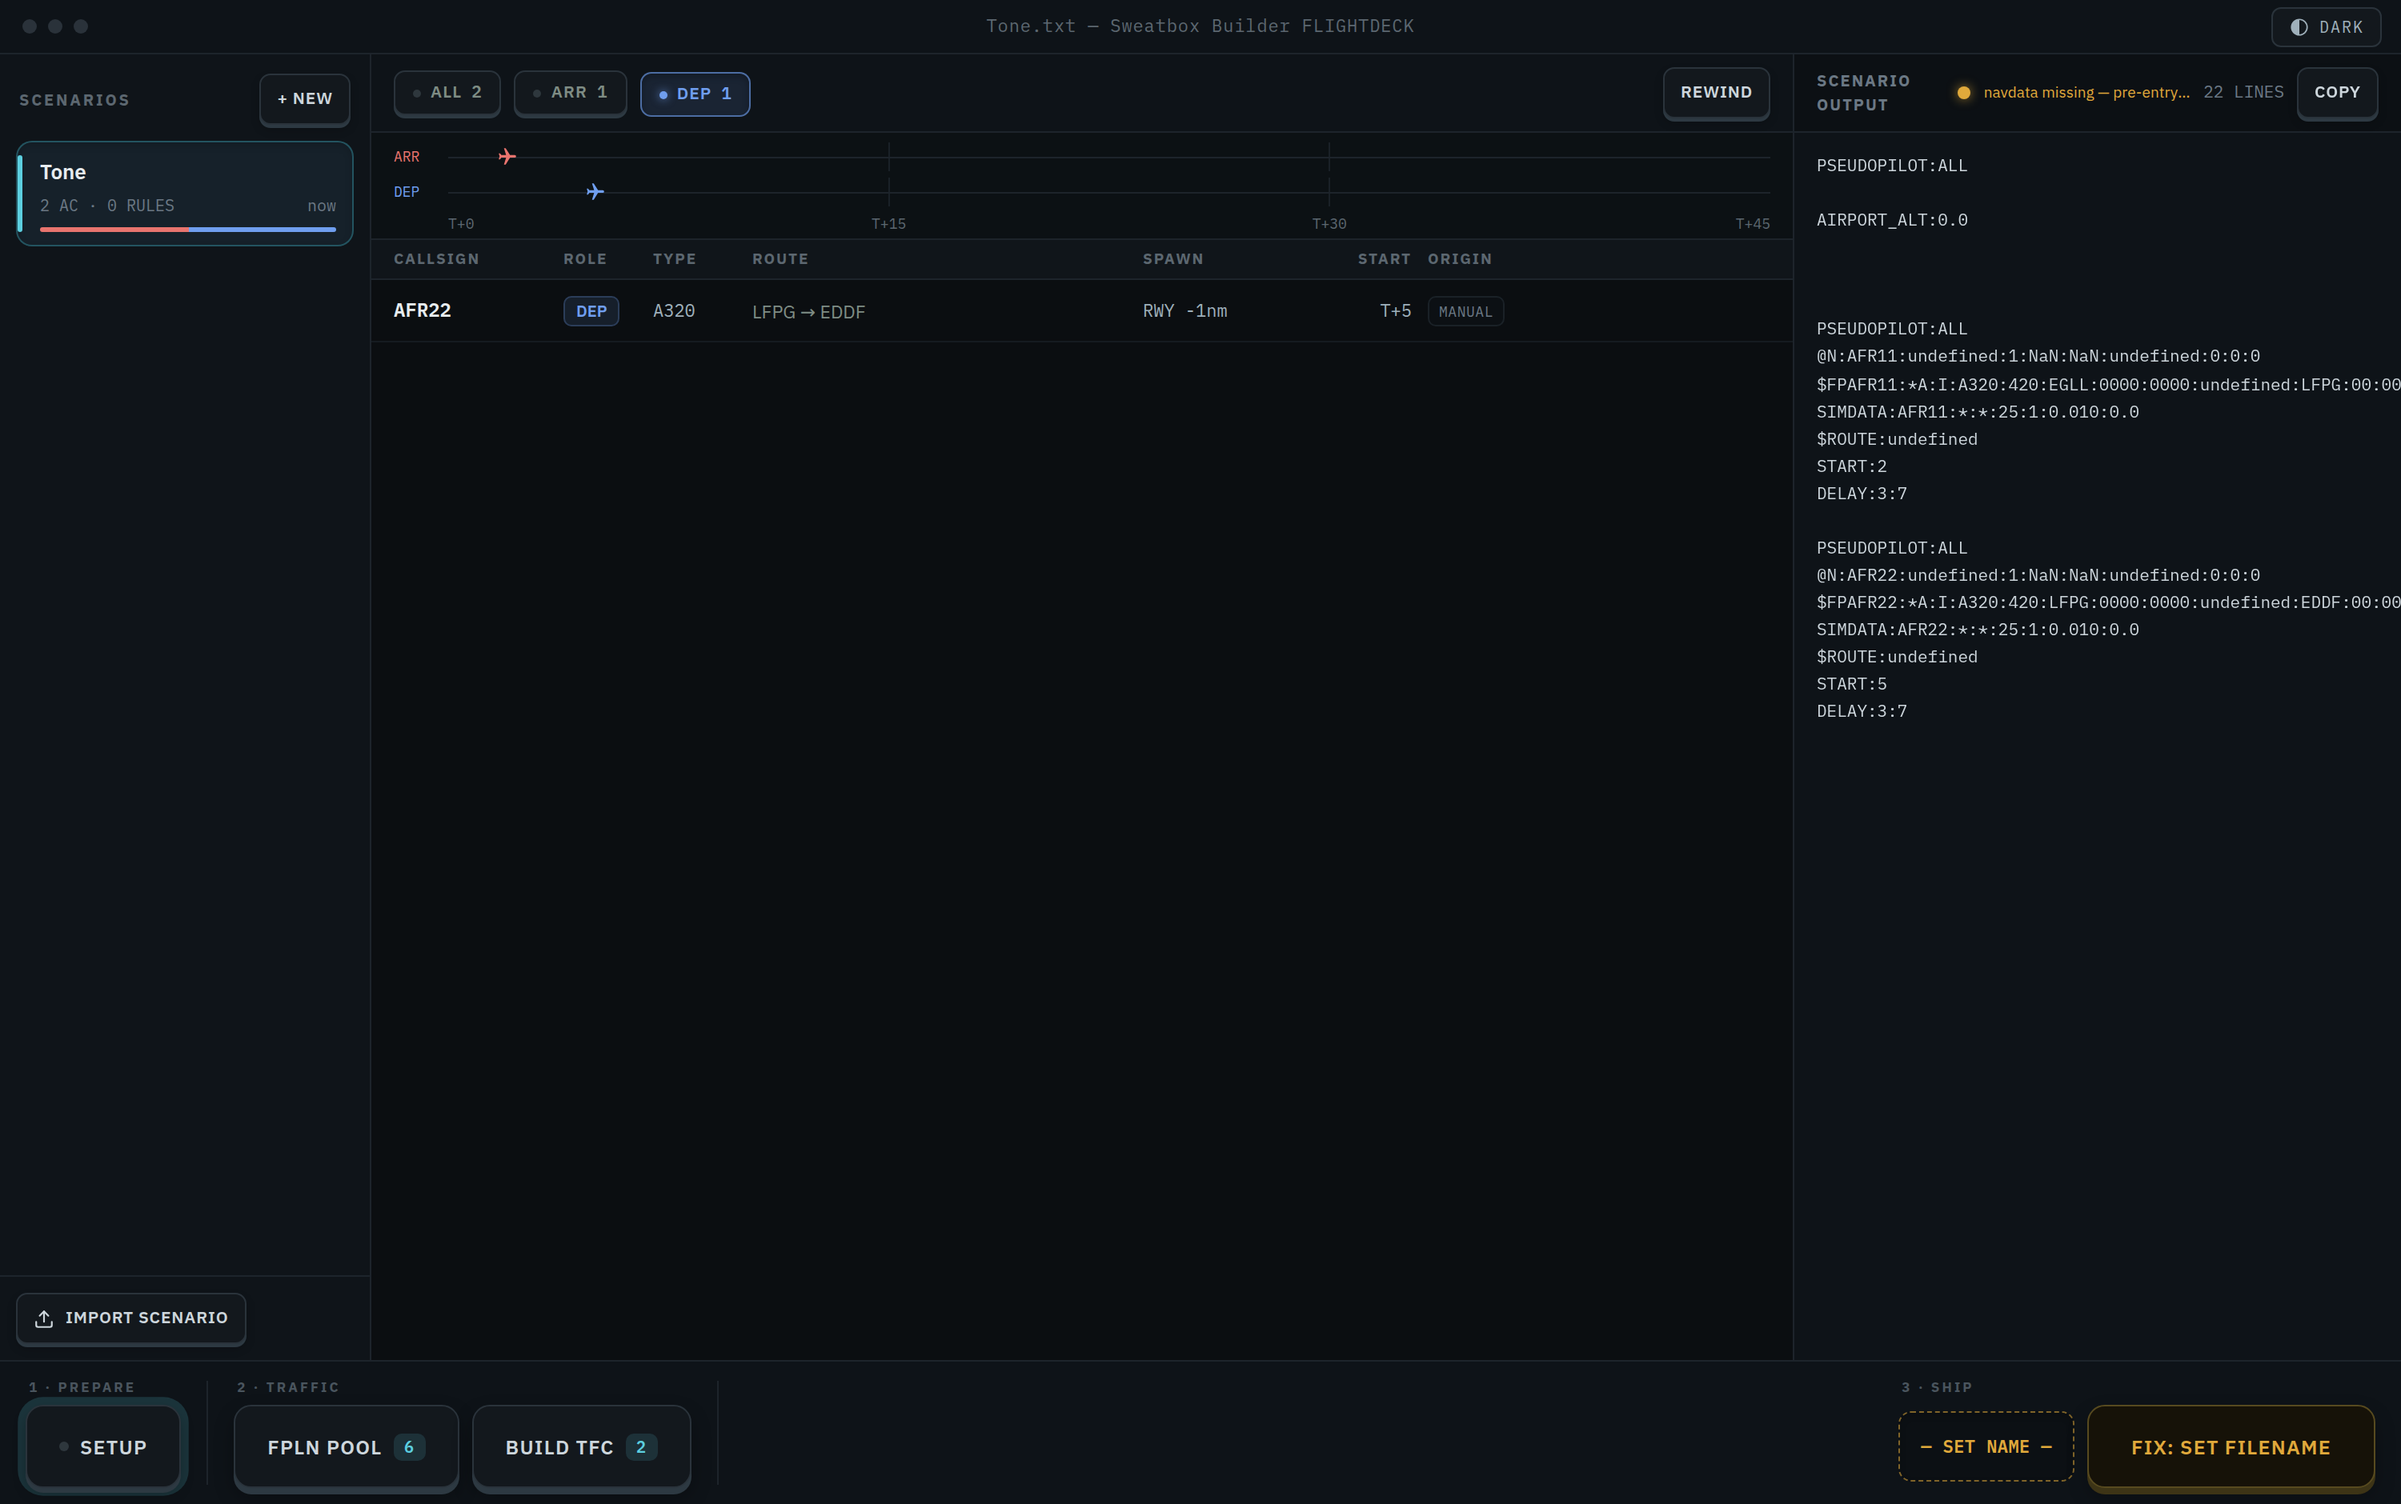
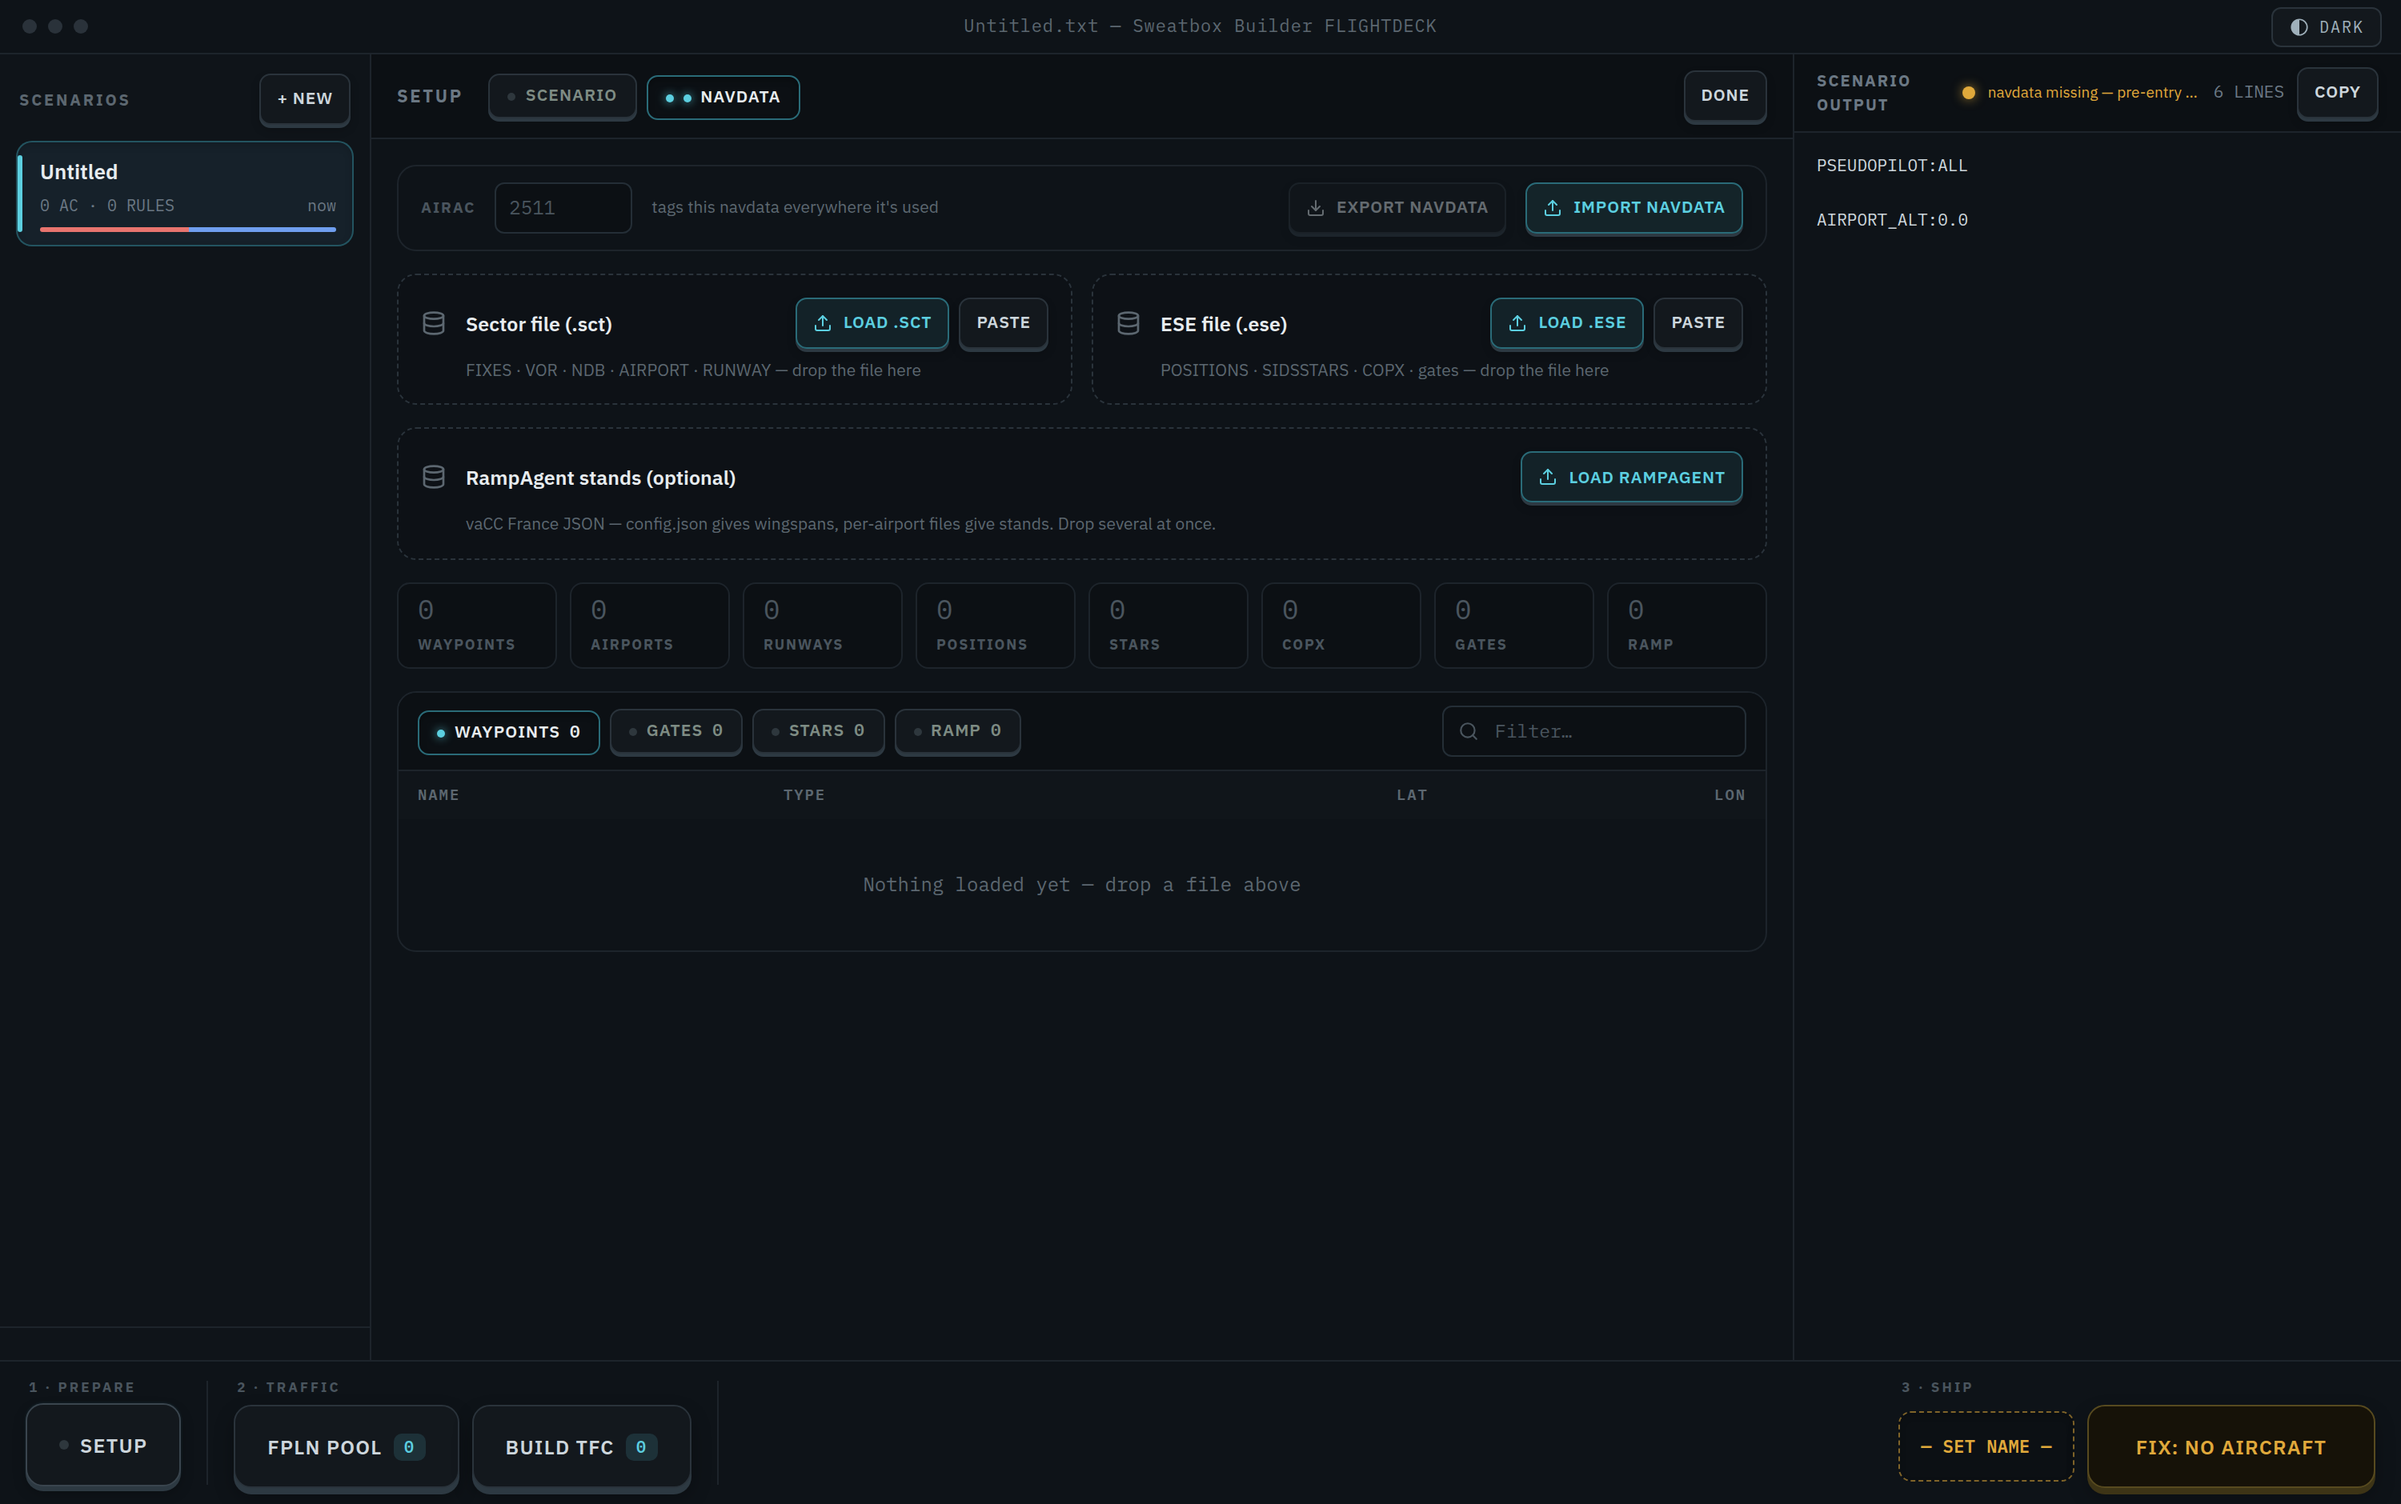
flightdeck: app-wide tone hierarchy pass + conformity audit
Design pass (per TONES.md contract):
- LOAD .SCT/.ESE/RAMPAGENT and IMPORT NAVDATA keys get the cyan
  'preferred sibling' tint; PASTE/EXPORT stay neutral
- Holdings turn latches: glyph-first \u21ba LEFT (purple when on,
  non-standard direction) vs \u21bb RIGHT (neutral)
- ADD ILS FROM RUNWAY / ADD FROM ESE preferred over blank-entry siblings
- IMPORT RULESET and IMPORT POOL preferred over their SAVE/EXPORT siblings
- AircraftDrawer ARR/DEP latches use semantic tones instead of text hacks

Conformity audit fixes:
- CLEAR GND HoldKey amber -> destructive red (consistent with GroundSection)
- removed ad-hoc red text hacks on DELETE HoldKeys (drawer, slot rail)
- Light WTC latch green was decorative -> neutral
- lone FETCH keys lose cy (preferred tint requires a sibling cluster)
- TONES.md: two clarifying rulings appended

Verified: tsc clean, 15/15 parity tests, build OK, tone e2e (computed
colors, glyph pair, per-tray cy/primary budget) passing.

Claude-Session: https://claude.ai/code/session_01KWnGSBDoXNAsWan61zZy4J

diff --git a/src/deck/SetupSection.tsx b/src/deck/SetupSection.tsx
@@ -323,6 +323,7 @@ export function SetupSection({
             </div>
             <DeckKey
               size="sm"
+              tone="cy"
               disabled={!hasRunways || !canAddFromRwy}
               onClick={addIlsFromRwy}
               title="Copy both threshold coordinates straight from the sector file"
@@ -419,6 +420,7 @@ export function SetupSection({
             </div>
             <DeckKey
               size="sm"
+              tone="cy"
               disabled={!pickPos}
               onClick={addCtrlFromEse}
               title="Add this position as a controller, callsign and frequency filled in"
@@ -555,15 +557,16 @@ export function SetupSection({
                               onClick={() => patch("holdings", holdings, i, { turn: "R" })}
                               title="Right turns (standard)"
                             >
-                              RIGHT
+                              ↻ RIGHT
                             </Latch>
                             <Latch
                               size="md"
+                              tone="pu"
                               on={h.turn === "L"}
                               onClick={() => patch("holdings", holdings, i, { turn: "L" })}
-                              title="Left turns"
+                              title="Left turns (non-standard)"
                             >
-                              LEFT
+                              ↺ LEFT
                             </Latch>
                           </div>
                         </td>

diff --git a/src/deck/AircraftDrawer.tsx b/src/deck/AircraftDrawer.tsx
@@ -128,17 +128,17 @@ export function AircraftDrawer({ aircraft, waypoints, onSave, onCancel, onDelete
             <label className={LB}>Role</label>
             <div className="flex gap-1.5 items-center h-[30px]">
               <Latch
+                tone="arr"
                 on={!a.isDeparture}
                 onClick={() => update("isDeparture", false)}
-                className={!a.isDeparture ? "!text-arr" : ""}
                 title="Arrival"
               >
                 ARR
               </Latch>
               <Latch
+                tone="dep"
                 on={!!a.isDeparture}
                 onClick={() => update("isDeparture", true)}
-                className={a.isDeparture ? "!text-dep" : ""}
                 title="Departure"
               >
                 DEP
@@ -309,7 +309,7 @@ export function AircraftDrawer({ aircraft, waypoints, onSave, onCancel, onDelete
       {/* ===== footer ===== */}
       <div className="flex-none flex items-center gap-2.5 px-4 py-2.5 border-t border-bd1 bg-inset">
         {!isNew && (
-          <HoldKey onHold={() => onDelete(a.id)} className="!text-rd-fg" title="Hold to delete this aircraft">
+          <HoldKey onHold={() => onDelete(a.id)} title="Hold to delete this aircraft">
             DELETE
           </HoldKey>
         )}

diff --git a/src/deck/NavdataSection.tsx b/src/deck/NavdataSection.tsx
@@ -79,7 +79,7 @@ function SourceCard({
           </span>
           <span className="text-[12.5px] font-semibold text-tx1 flex-1 min-w-0 truncate">{title}</span>
           <div className="flex items-center gap-1.5 flex-none">
-            <DeckKey size="sm" onClick={() => inputRef.current?.click()}>
+            <DeckKey size="sm" tone="cy" onClick={() => inputRef.current?.click()}>
               <Icon name="upload" size={12} />
               {loadLabel}
             </DeckKey>
@@ -318,7 +318,7 @@ export function NavdataSection({
           <Icon name="download" size={12} />
           EXPORT NAVDATA
         </DeckKey>
-        <DeckKey size="sm" onClick={() => bundleRef.current?.click()} title="Load a previously exported navdata.json">
+        <DeckKey size="sm" tone="cy" onClick={() => bundleRef.current?.click()} title="Load a previously exported navdata.json">
           <Icon name="upload" size={12} />
           IMPORT NAVDATA
         </DeckKey>

diff --git a/src/deck/RuleEditorSection.tsx b/src/deck/RuleEditorSection.tsx
@@ -49,11 +49,12 @@ const SRC: Record<string, { label: string; cls: string }> = {
 const srcOf = (s: string) =>
   SRC[s] || { label: (s || "?").toUpperCase(), cls: "text-tx5 bg-inset border-bd3" };
 
-// WTC categories keep the legacy severity ramp, remapped onto deck tones.
-// Red is reserved for arrivals and destructive keys, so Super shares Heavy's
-// amber rather than borrowing the arrivals colour.
+// WTC categories: only Heavy/Super carry a tone — amber, for their wingspan /
+// wake caveats (an amber meaning in TONES.md). Light and Medium stay neutral:
+// red is reserved for arrivals/destructive, and green means live/verified
+// data, not "small aircraft" — the legacy severity ramp was decoration.
 const CAT_TONE: Record<string, string | undefined> = {
-  L: "gn",
+  L: undefined,
   M: undefined,
   H: "amber",
   J: "amber",

diff --git a/src/deck/trays/BuildTray.tsx b/src/deck/trays/BuildTray.tsx
@@ -202,7 +202,7 @@ export function BuildTray(props: any) {
       footer={
         section === "rules" && allRules.length ? (
           <>
-            <DeckKey size="sm" onClick={() => fileRef.current?.click()} title="Import a ruleset .json — MERGE adds to these rules, REPLACE swaps them all">
+            <DeckKey size="sm" tone="cy" onClick={() => fileRef.current?.click()} title="Import a ruleset .json — MERGE adds to these rules, REPLACE swaps them all">
               <Icon name="upload" size={13} />
               IMPORT RULESET
             </DeckKey>

diff --git a/src/deck/TrafficBoard.tsx b/src/deck/TrafficBoard.tsx
@@ -103,7 +103,7 @@ export const TrafficBoard = forwardRef<HTMLDivElement, any>(function TrafficBoar
           </HoldKey>
         )}
         {gndCount > 0 && (
-          <HoldKey onHold={clearGnd} tone="amber" title="Hold to clear ground traffic">
+          <HoldKey onHold={clearGnd} title="Hold to clear ground traffic">
             CLEAR GND <span className="dk-badge">{gndCount}</span>
           </HoldKey>
         )}

diff --git a/src/deck/trays/FplnPoolTray.tsx b/src/deck/trays/FplnPoolTray.tsx
@@ -625,7 +625,7 @@ export function FplnPoolTray(props: any) {
       </>
     ) : (
       <>
-        <DeckKey size="sm" onClick={() => importRef.current?.click()} title="Load a previously exported pool.json">
+        <DeckKey size="sm" tone="cy" onClick={() => importRef.current?.click()} title="Load a previously exported pool.json">
           <Icon name="upload" size={12} />
           IMPORT POOL
         </DeckKey>

diff --git a/src/deck/SlotRail.tsx b/src/deck/SlotRail.tsx
@@ -338,7 +338,7 @@ export function SlotRail({
           <div className="mt-1 pt-1.5 pb-0.5 px-0.5 border-t border-bd2">
             <HoldKey
               size="sm"
-              className="w-full text-rd-fg"
+              className="w-full"
               title="Hold to delete this slot"
               onHold={() => {
                 const n = menu.name;

diff --git a/src/deck/TONES.md b/src/deck/TONES.md
@@ -24,6 +24,9 @@ something. Adding a tone anywhere means answering "which rule below?".
    (arr/dep/amber). If everything is coloured, nothing is.
 2. Sibling actions where we have a preference: preferred gets `cy`, the rest
    stay neutral. No preference → all neutral.
+   - "The workflow's next step" still requires a sibling choice in the same
+     cluster: a lone action key (e.g. a solitary FETCH) stays neutral — its
+     placement already says it's next, so `cy` there is decoration.
 3. `arr`/`dep` are reserved for the arrival/departure meaning ONLY. Never
    reuse red/blue for unrelated pairs.
 4. Paired opposites that aren't arr/dep (e.g. LEFT/RIGHT turns) distinguish
@@ -31,6 +34,9 @@ something. Adding a tone anywhere means answering "which rule below?".
    too subtle. Never invent a new hue.
 5. Destructive is always a HoldKey (red, hold-to-confirm). Red never appears
    on a plain click.
+   - Destructive wins over domain tones: a key that clears a semantic domain
+     (e.g. CLEAR GND) is still red — the domain lives in the label/badge, not
+     the key colour, and the red matches the hold-ring.
 6. View-switching controls (section latches, tab-like things) stay neutral —
    the lit cyan latch state is enough — EXCEPT when the section itself is a
    semantic concept (GROUND = amber).
